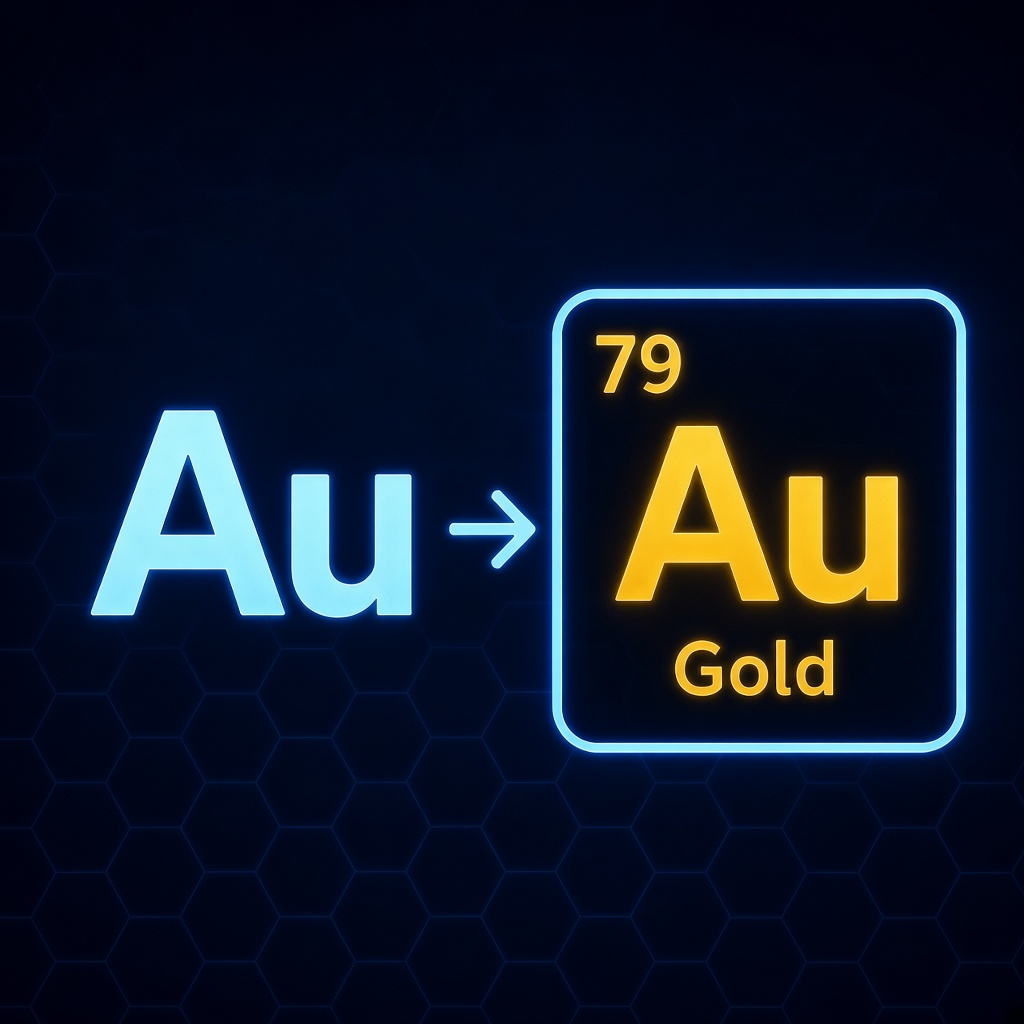
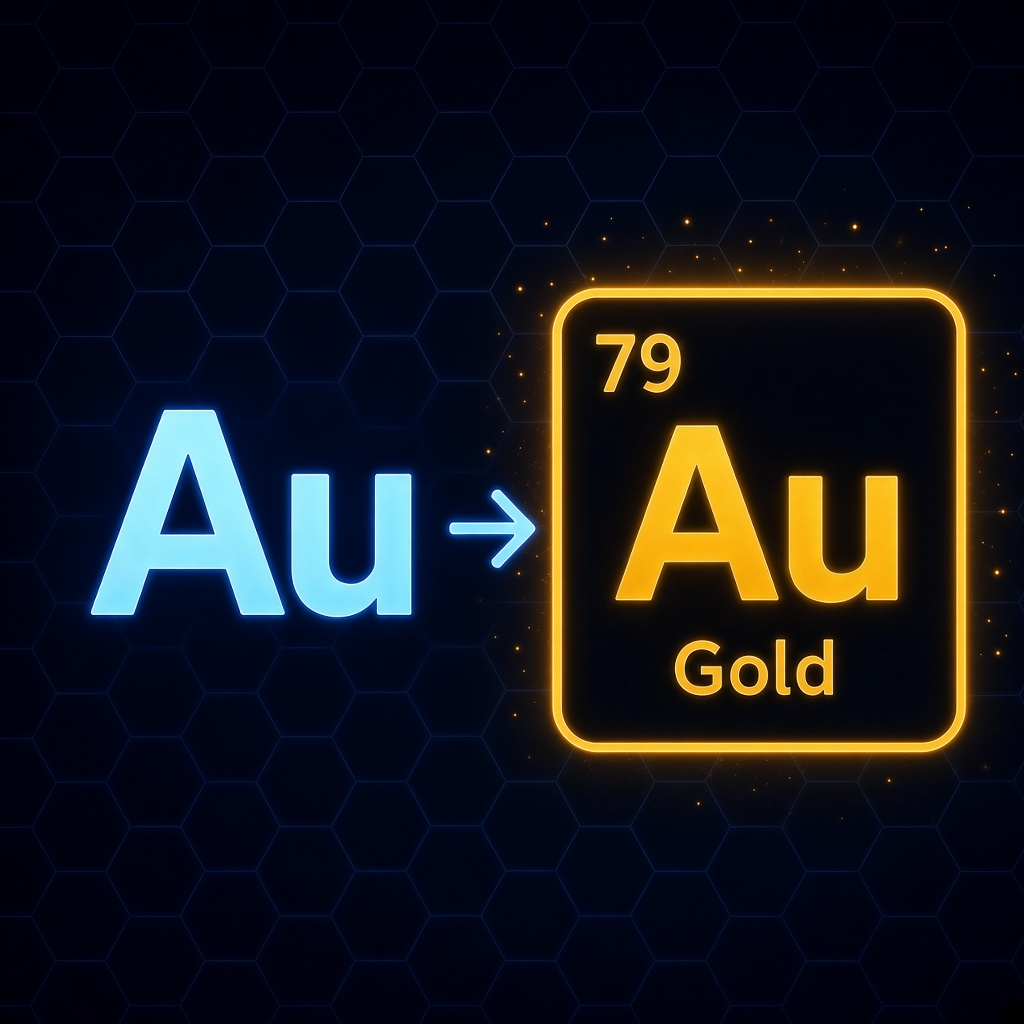
Give Find-by-name and Find-by-symbol gold tiles a small glow.

Changed region(s): [[0.4375, 0.2188, 1.0, 0.7812], [0.6562, 0.625, 0.7188, 0.6562]]

diff --git a/CHANGELOG.md b/CHANGELOG.md
@@ -7,6 +7,12 @@ and this project adheres to [Semantic Versioning](https://semver.org/spec/v2.0.0
 
 ## [Unreleased]
 
+## [0.23.12] - 2026-09-16
+
+### Changed
+
+- Find-by-name and Find-by-symbol gold tiles glow a little, like atomic number.
+
 ## [0.23.11] - 2026-09-16
 
 ### Changed
